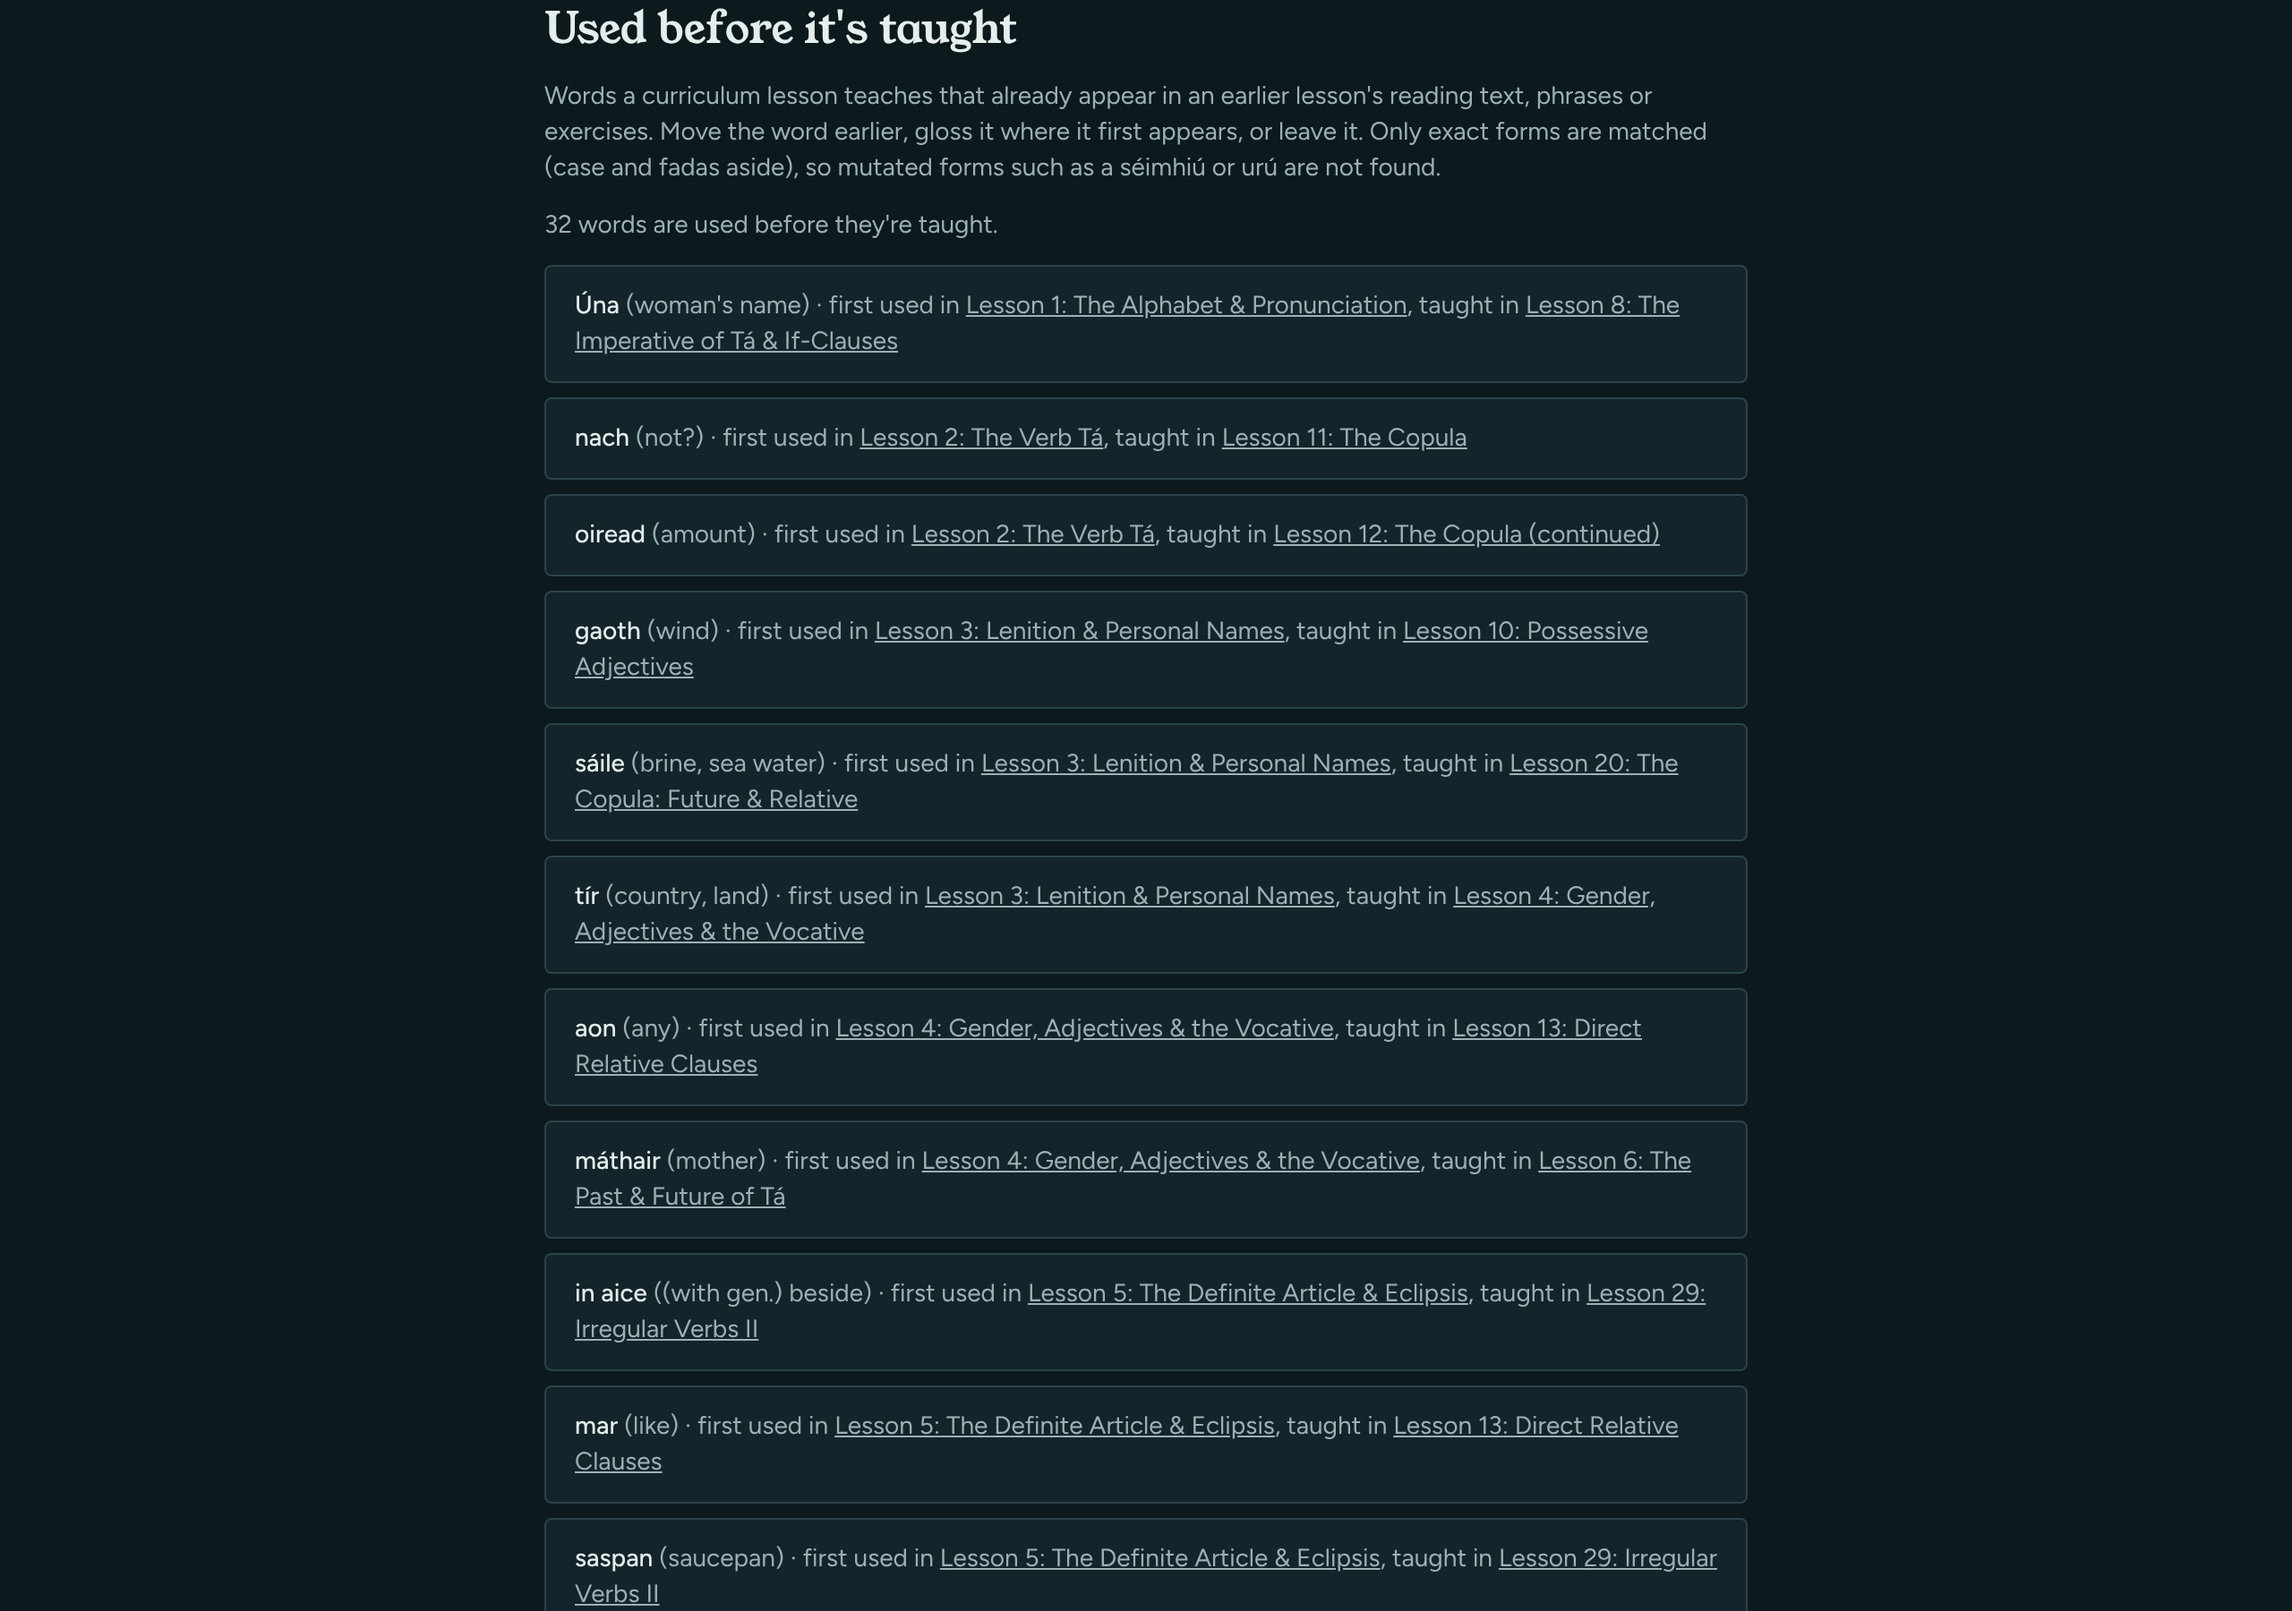
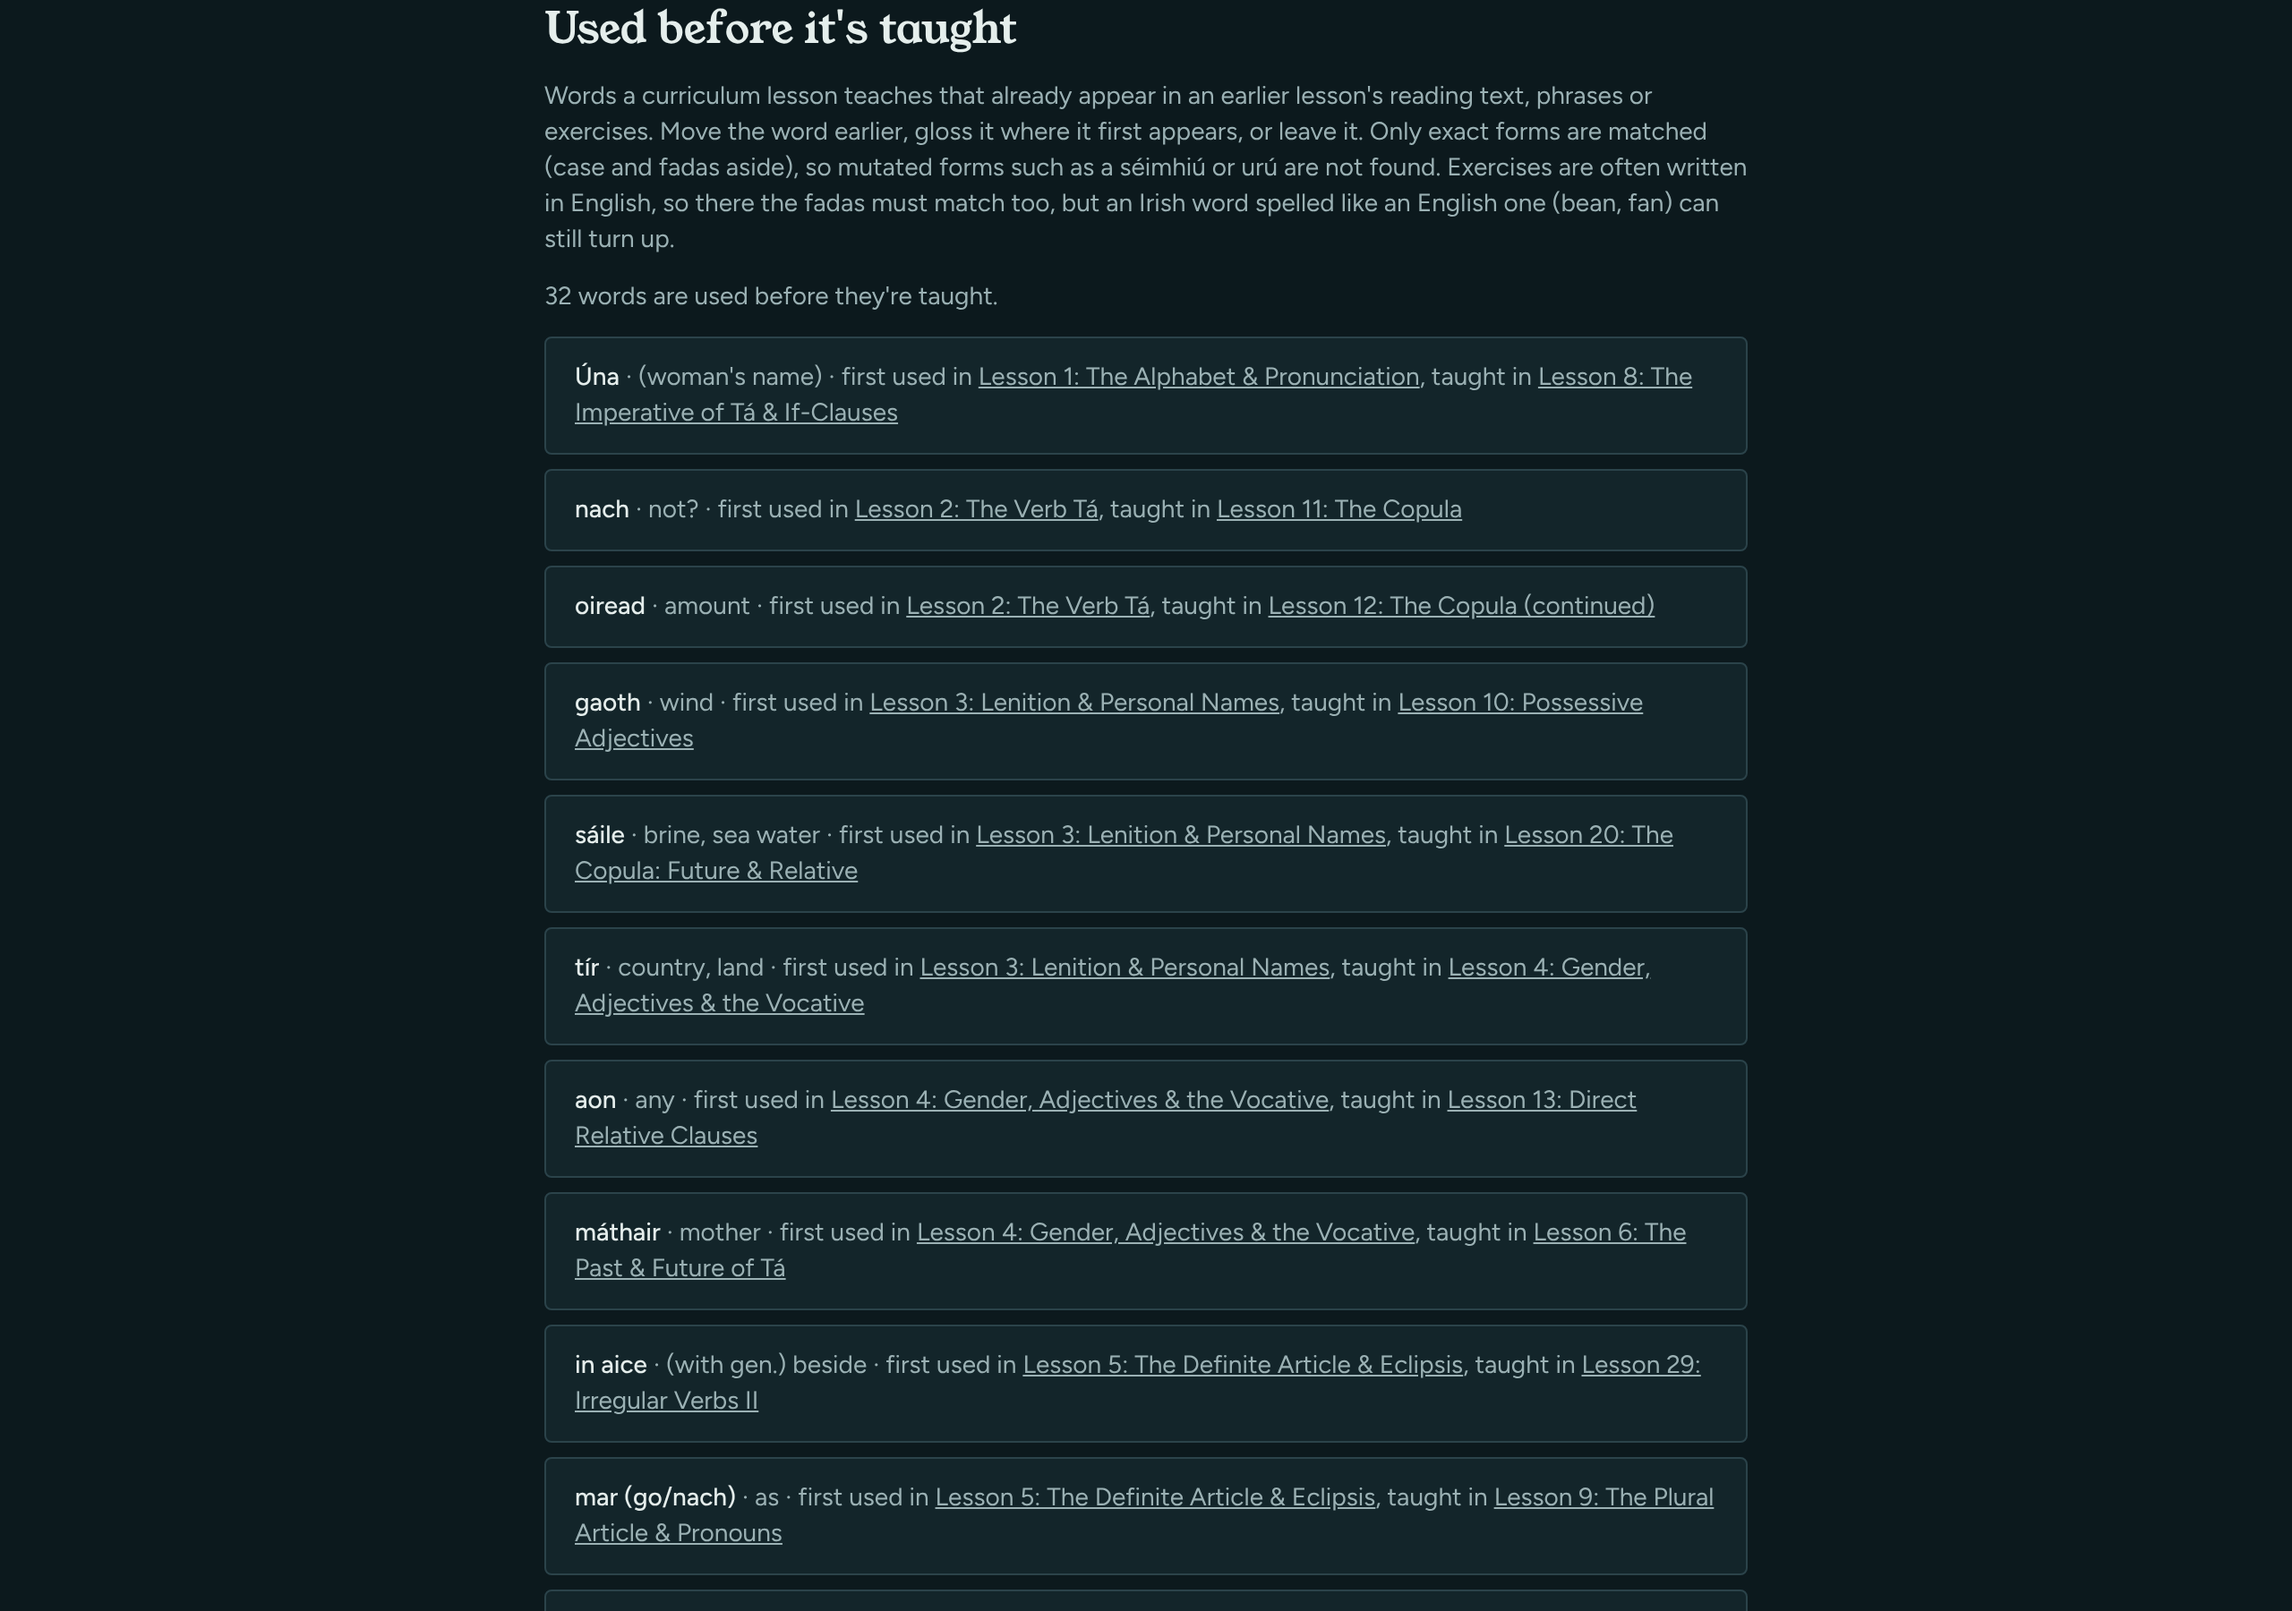
Used before it's taught: match each form of a glossed entry, keep fadas in exercises
Review fixes: "mar (go/nach)" and "mé, mise" match each form; English
exercise prompts need the fadas to match (much is not múch); quote marks
around speech no longer hide words; one row per word; gloss shown plainly.
Tests for reading passages, alternatives, exercises and position ties.

Claude-Session: https://claude.ai/code/session_017wWQSAzqLspj5eGbrhGqzC

Changed region(s): [[0.2188, 0.1244, 0.75, 1.0], [0.625, 0.0933, 0.75, 0.1244], [0.5625, 0.1244, 0.5938, 0.1556]]

diff --git a/app/models/vocabulary_gaps.rb b/app/models/vocabulary_gaps.rb
@@ -204,31 +204,63 @@ class VocabularyGaps
                     .includes(:vocabulary_items, :exercises, :phrases, text_passages: :rich_text_body).to_a
     # Each lesson's words once, as a set for single words and as one padded
     # string for phrases, so each check is a lookup rather than a scan.
-    words = lessons.map { |lesson| IrishText.words(used_text(lesson)) }
-    sets = words.map(&:to_set)
-    joined = words.map { |list| " #{list.join(' ')} " }
+    # Exercise prompts are often English ("too much water"), so there the
+    # fadas must match too, or "much" would count as múch.
+    folded = lessons.map { |lesson| early_words_in(used_text(lesson)) }
+    accented = lessons.map { |lesson| early_words_in(exercise_text(lesson), fold: false) }
+    lookups = folded.zip(accented).map { |f, a| [ f.to_set, " #{f.join(' ')} ", a.to_set, " #{a.join(' ')} " ] }
 
     first_taught = {}
     lessons.each_with_index do |lesson, index|
       lesson.vocabulary_items.each do |item|
-        key = IrishText.words(item.irish)
-        first_taught[key] ||= [ index, item ] if key.join.length >= EARLY_MIN_LETTERS
+        early_forms(item.irish).each do |form|
+          key = early_words_in(form)
+          next if key.join.delete("'").length < EARLY_MIN_LETTERS
+
+          first_taught[key] ||= [ index, item, early_words_in(form, fold: false) ]
+        end
       end
     end
 
-    first_taught.filter_map do |key, (index, item)|
+    found = first_taught.filter_map do |key, (index, item, accented_key)|
       used = (0...index).find do |earlier|
-        key.one? ? sets[earlier].include?(key.first) : joined[earlier].include?(" #{key.join(' ')} ")
+        set, text, accented_set, accented_text = lookups[earlier]
+        early_match?(key, set, text) || early_match?(accented_key, accented_set, accented_text)
       end
       Early.new(item: item, used_in: lessons[used], taught_in: lessons[index]) if used
-    end.sort_by { |e| [ e.used_in.position, e.used_in.number, e.item.irish.downcase ] }
+    end
+    # One row per item, at its earliest use, even when two of its forms match.
+    found.group_by(&:item).values.map { |rows| rows.min_by { |e| [ e.used_in.position, e.used_in.number ] } }
+         .sort_by { |e| [ e.used_in.position, e.used_in.number, e.item.irish.downcase ] }
+  end
+
+  # The forms an entry teaches: notes in brackets dropped, alternatives split,
+  # so "mar (go/nach)" is "mar" and "mé, mise" is "mé" and "mise".
+  def early_forms(irish)
+    irish.to_s.gsub(/\([^)]*\)/, " ").split(%r{[,/;]}).map(&:strip).reject(&:empty?)
+  end
+
+  # Words as IrishText splits them, with quote marks around speech taken off
+  # ('Tá ... beag') while elisions such as b' stay.
+  def early_words_in(text, fold: true)
+    words = fold ? IrishText.words(text) : text.to_s.unicode_normalize(:nfc).downcase.tr("’", "'").scan(/[\p{L}']+/)
+    words.map { |word| word.length > 2 ? word.gsub(/\A'+|'+\z/, "") : word }.reject(&:empty?)
+  end
+
+  def early_match?(key, set, text)
+    return false if key.empty?
+
+    key.one? ? set.include?(key.first) : text.include?(" #{key.join(' ')} ")
   end
 
   # The Irish a learner meets in a lesson without it being taught there.
   def used_text(lesson)
     [ *lesson.text_passages.map { |passage| passage.body&.to_plain_text }, lesson.read_attribute(:texts),
-      *lesson.phrases.map(&:irish), *lesson.exercises.flat_map { |exercise| [ exercise.prompt, exercise.answer ] } ]
-      .compact.join("\n")
+      *lesson.phrases.map(&:irish) ].compact.join("\n")
+  end
+
+  def exercise_text(lesson)
+    lesson.exercises.flat_map { |exercise| [ exercise.prompt, exercise.answer ] }.compact.join("\n")
   end
 
   def build_repeats

diff --git a/test/models/vocabulary_gaps_test.rb b/test/models/vocabulary_gaps_test.rb
@@ -202,4 +202,48 @@ class VocabularyGapsTest < ActiveSupport::TestCase
 
     assert_empty VocabularyGaps.new.early_words
   end
+  test "a reading passage counts, and quote marks around speech don't hide its first and last words" do
+    one = lessons(:one)
+    one.text_passages.create!(title: "Scéal", body: "<p>'Tá an capall tuirseach,' a dúirt sé.</p>")
+    two = Lesson.create!(number: 2, title: "Lesson Two", position: 2)
+    VocabularyItem.create!(lesson: two, irish: "tuirseach", english: "tired", position: 1)
+    VocabularyItem.create!(lesson: two, irish: "dúirt", english: "said", position: 2)
+
+    assert_equal [ "dúirt", "tuirseach" ], VocabularyGaps.new.early_words.map { |e| e.item.irish }
+  end
+
+  test "notes in brackets are dropped and alternatives are each matched, once per word" do
+    lessons(:one).update_columns(texts: "Bhí súil agam leis. Mise agus tusa.")
+    two = Lesson.create!(number: 2, title: "Lesson Two", position: 2)
+    VocabularyItem.create!(lesson: two, irish: "súil (le)", english: "hope", position: 1)
+    VocabularyItem.create!(lesson: two, irish: "mé, mise", english: "me", position: 2)
+    VocabularyItem.create!(lesson: two, irish: "tusa/tú", english: "you", position: 3)
+
+    assert_equal [ "mé, mise", "súil (le)", "tusa/tú" ], VocabularyGaps.new.early_words.map { |e| e.item.irish }
+  end
+
+  test "in exercises, often written in English, the fadas must match" do
+    lessons(:one).exercises.create!(number: 2, prompt: "Translate: there is too much water. Múch an solas.", position: 2)
+    two = Lesson.create!(number: 2, title: "Lesson Two", position: 2)
+    VocabularyItem.create!(lesson: two, irish: "múch", english: "extinguish", position: 1)
+    VocabularyItem.create!(lesson: two, irish: "solas", english: "light", position: 2)
+    VocabularyItem.create!(lesson: two, irish: "too", english: "not Irish", position: 3)
+
+    early = VocabularyGaps.new.early_words.map { |e| e.item.irish }
+    assert_equal [ "múch", "solas", "too" ], early
+    lessons(:one).exercises.last.update!(prompt: "Translate: there is too much water.")
+    assert_equal [ "too" ], VocabularyGaps.new.early_words.map { |e| e.item.irish }, "much is not múch"
+  end
+
+  test "a word taught in lessons one and three and used in two is not listed; lessons sharing a position go by number" do
+    lessons(:one).update_columns(position: 5)
+    two = Lesson.create!(number: 2, title: "Lesson Two", position: 5, texts: "Tá madra agus cathaoir anseo.")
+    three = Lesson.create!(number: 3, title: "Lesson Three", position: 6)
+    VocabularyItem.create!(lesson: three, irish: "madra", english: "dog", position: 1)
+    VocabularyItem.create!(lesson: three, irish: "cathaoir", english: "chair", position: 2)
+
+    early = VocabularyGaps.new.early_words
+    assert_equal [ "cathaoir" ], early.map { |e| e.item.irish }, "madra is first taught in lesson one"
+    assert_equal two, early.first.used_in
+  end
 end
